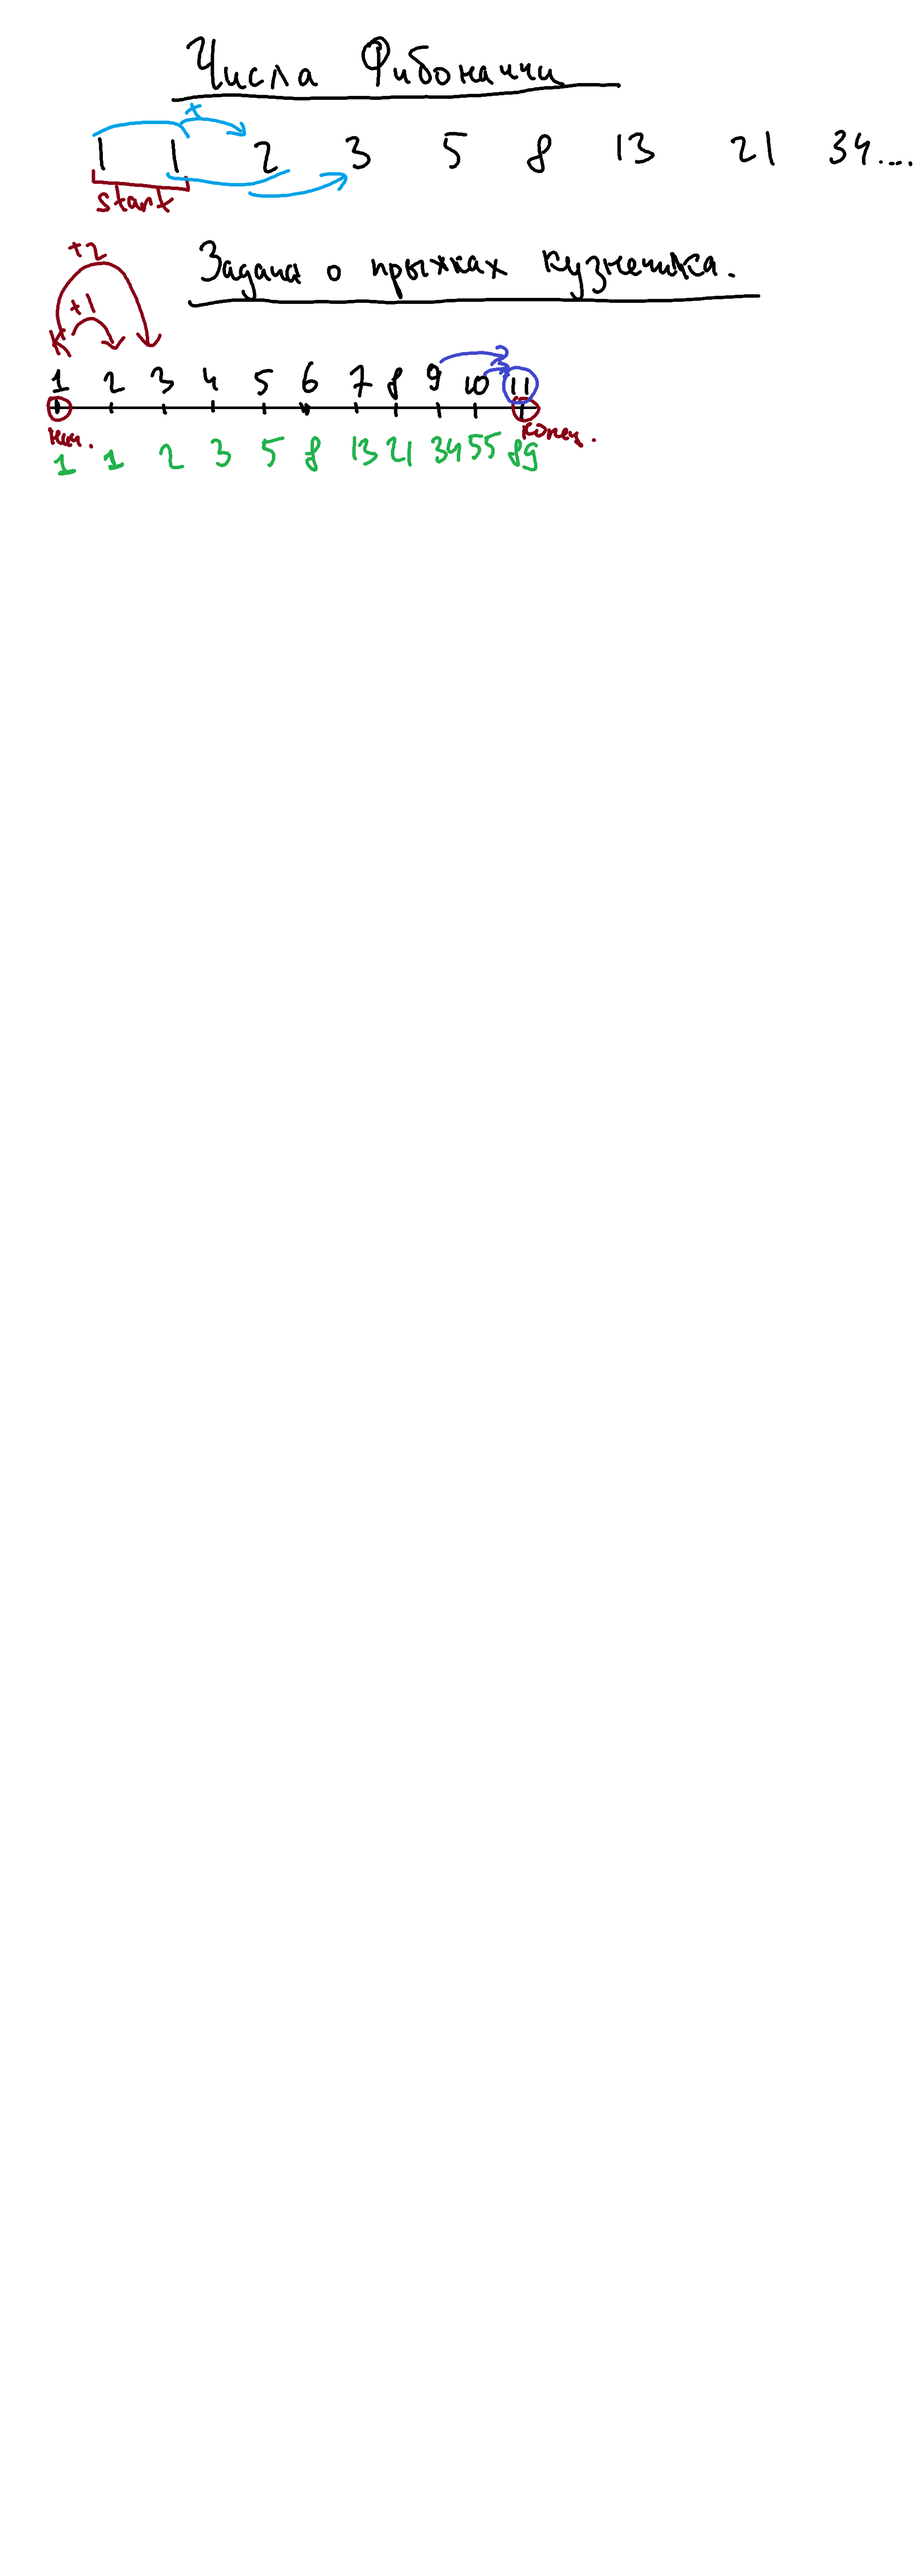
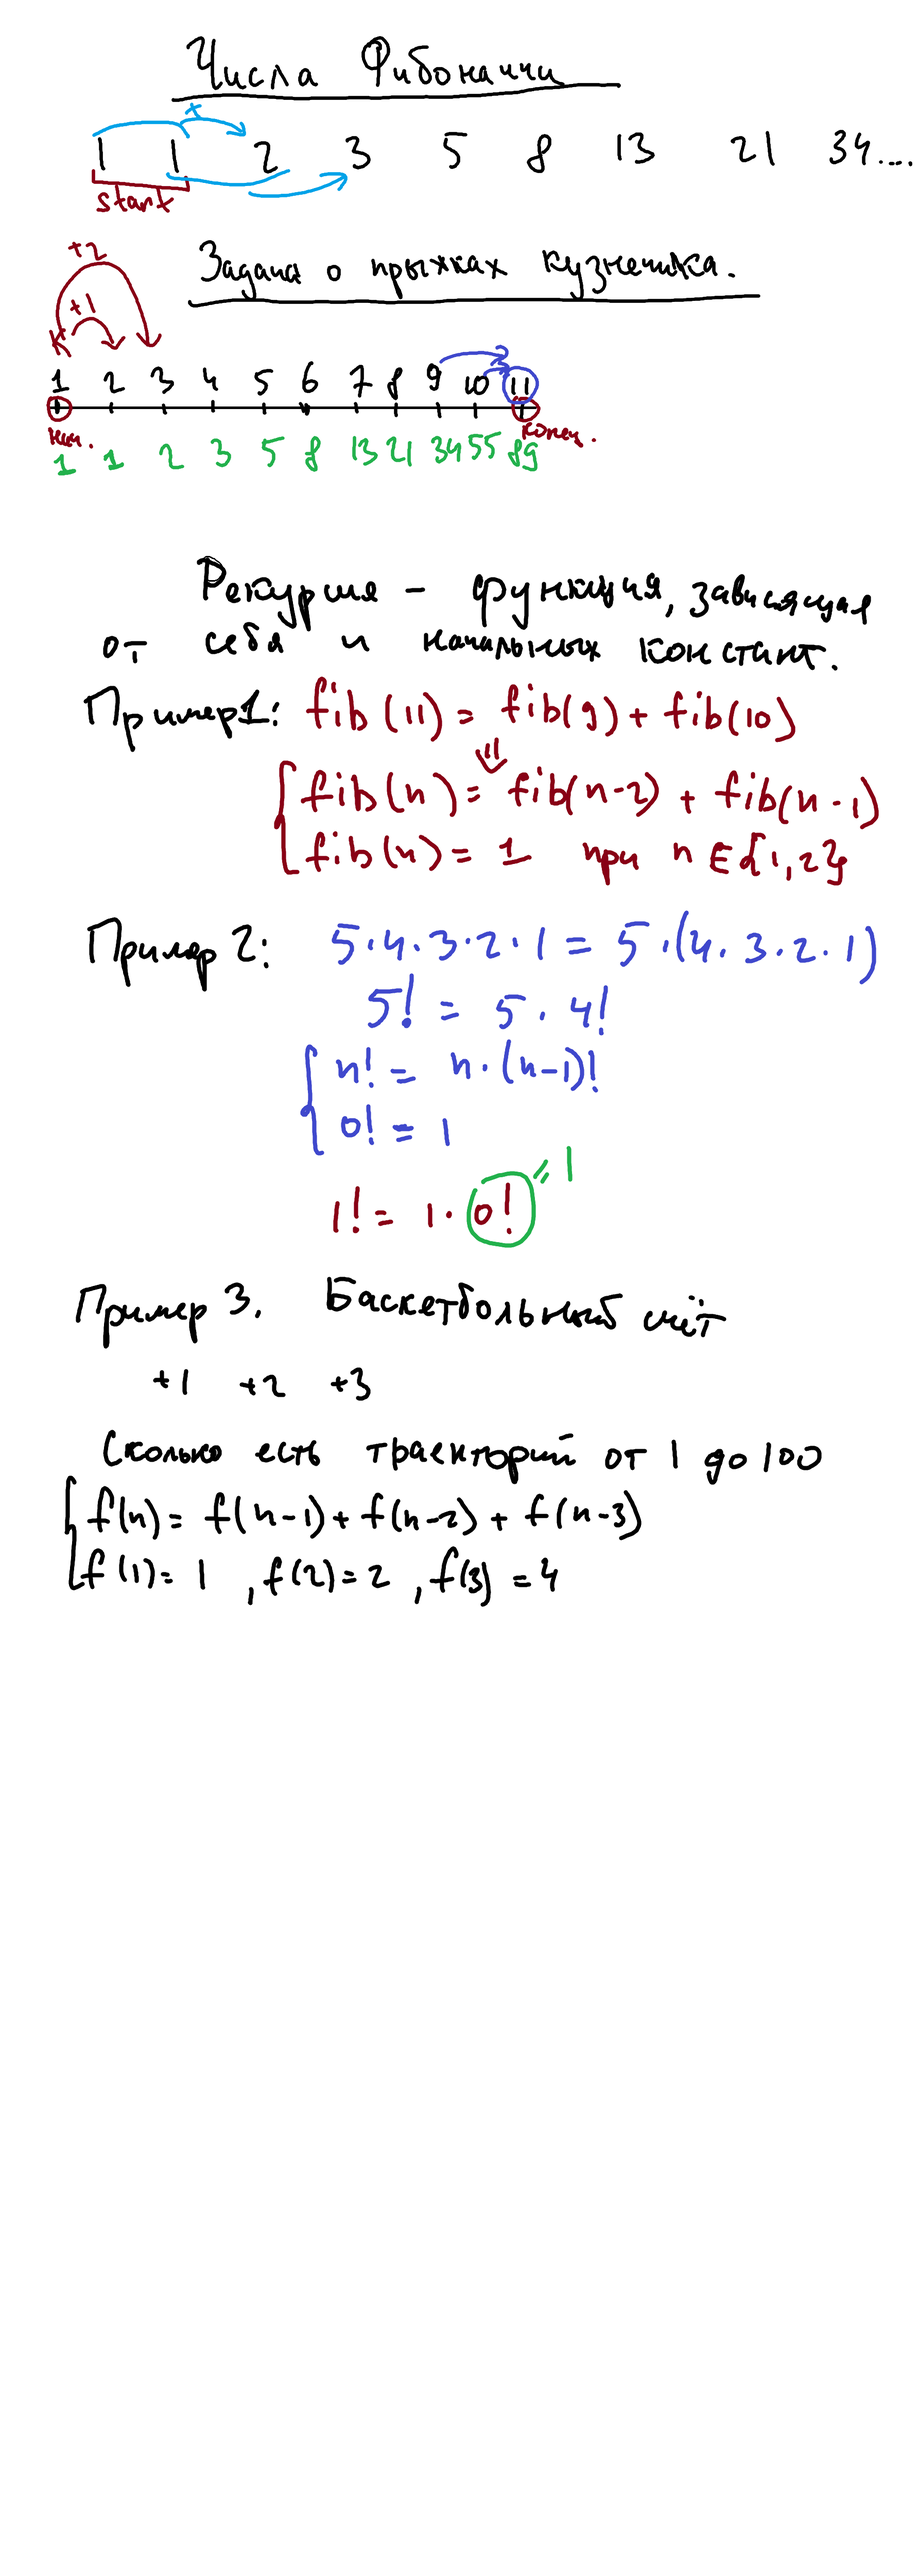
fibonacci

diff --git a/NADO ZNAT/basketball.py b/NADO ZNAT/basketball.py
@@ -1,0 +1,28 @@
+from time import time
+from functools import cache
+
+a, b, c = 1, 2, 4
+
+for _ in range(100-3):
+    a, b, c = b, c, a+b+c
+print(c)
+print(len(str(c)))
+
+# a b c (a+b+c)
+# 1 2 4 7
+#   a b c
+
+@cache
+def f(n):
+    if n == 1:
+        return 1
+    if n == 2:
+        return 2
+    if n == 3:
+        return 4
+    return f(n-1) + f(n-2) + f(n-3)
+
+
+for n in range(1, 10000+1):
+    start = time()
+    print(n, f(n), time()-start)
